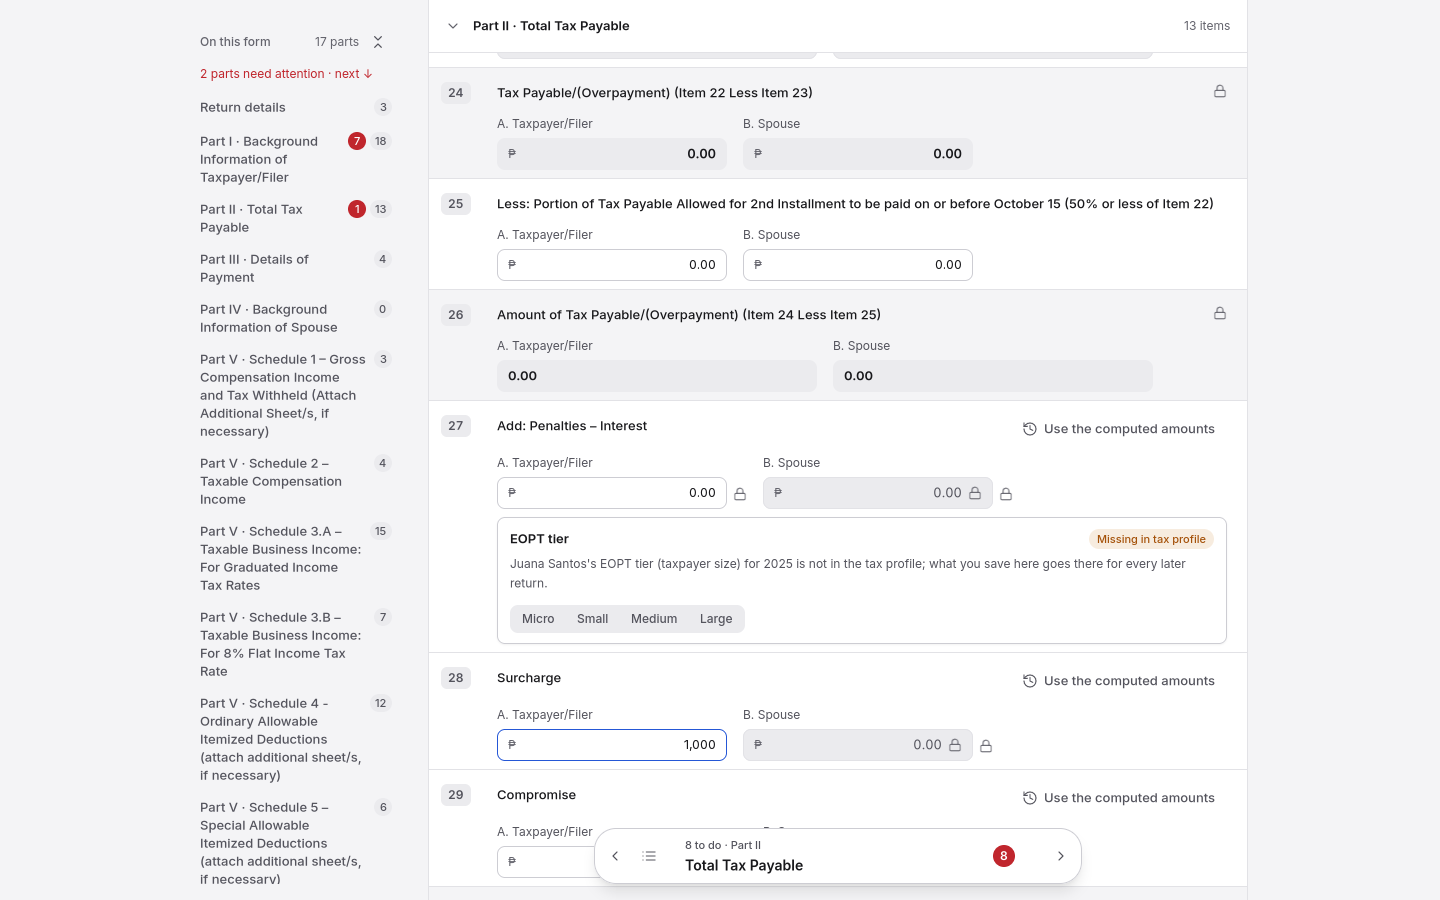
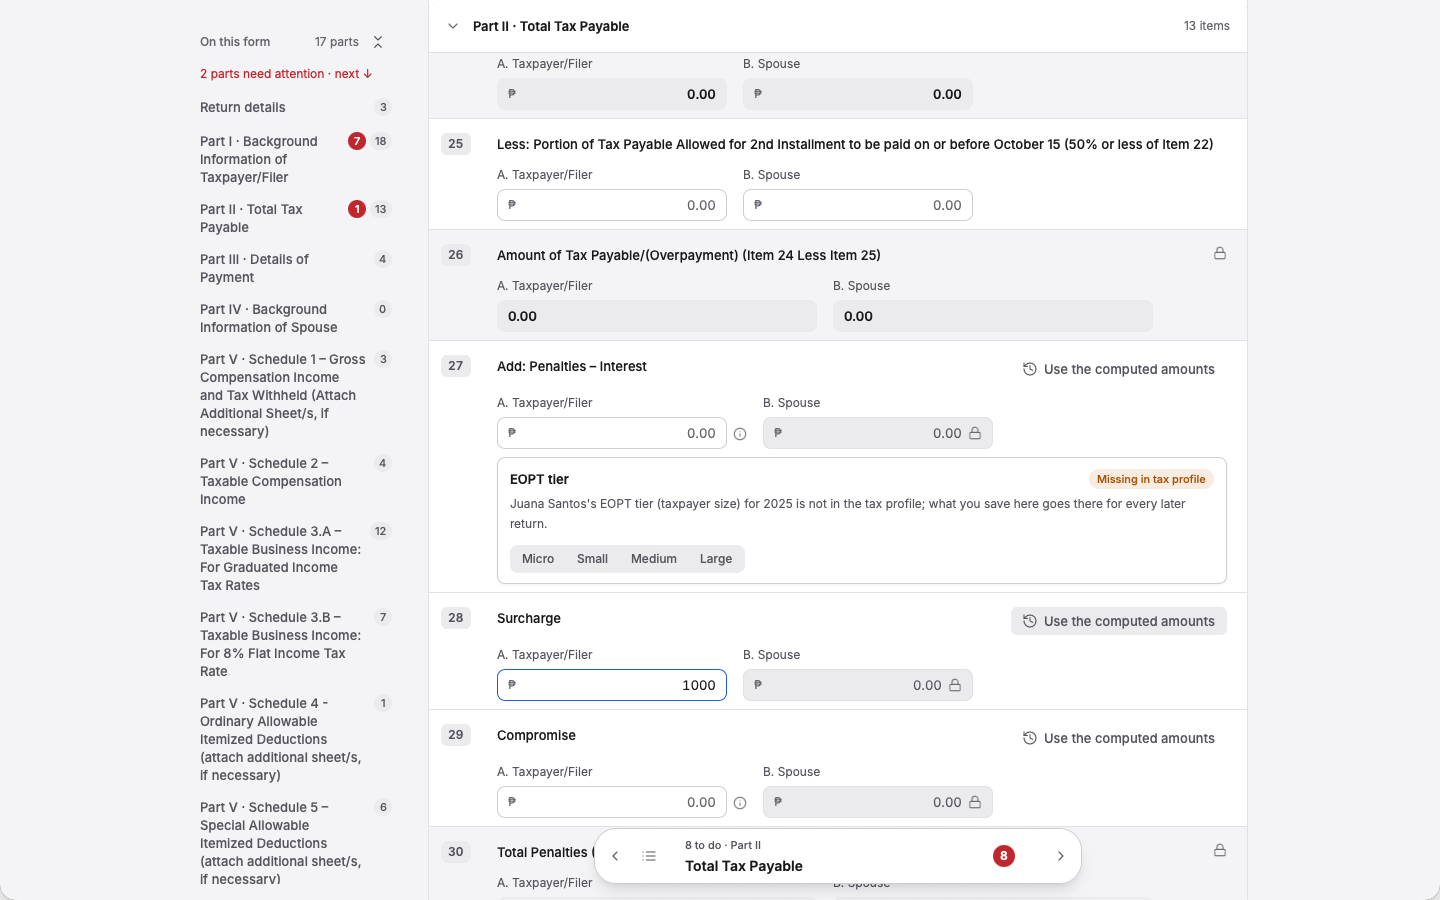
forms: penalty computed mark only on open untyped boxes
F1: a kept penalty amount is not computed. typed now also counts every key of a group kept as entered (a draft stored before the penalty model) and every key with a kept 8% amount, so those boxes show what the filer entered and the page marks none of them Computed from other items. Rust test on the existing legacy fixture, failing first (typed was empty).

F2: the marks flex-row wrapper no longer wraps every box in the row; only a penalty box of an open group is wrapped, so ordinary text boxes, tick boxes and long checkbox labels keep the rows full width on phones. The wrapper keys on group membership, not penaltyComputed, so the mark lifting never remounts the box mid-edit.

F3: a shut penalty box carries no outside mark (its own lock and reason already say the amounts are computed) and the mark on an open box is an info sign, so no lock icon ever sits beside a box the filer can type in.

F4: the desktop untouched proof is retaken with Items 27 to 29 visible.

F5: the mark no longer duplicates the lock announcement: it shows only on open boxes, where the box has no lock reason of its own, so a screen reader hears the computed state once.

Tests: the Rust assertion on the legacy fixture and the rewritten penaltyMark tests failed first on the unfixed tree and pass with the fix.

diff --git a/nsh/screens/form/penaltyMark.test.tsx b/nsh/screens/form/penaltyMark.test.tsx
@@ -1,9 +1,9 @@
 import { expect, open, test } from "nsh/test";
 
-// The page's "Computed from other items" mark sits on exactly the penalty boxes
-// whose component the filer never typed. Nothing typed yet: all three of 1701's
-// Items 27-29 carry it; a box outside the penalty group carries none.
-test("penalty computed marks on 1701", async () => {
+// The page's "Computed from other items" mark sits on exactly the open penalty boxes
+// whose component the filer never typed. A shut box carries no mark: its own lock and
+// its reason already say the amounts are computed. An ordinary box is never wrapped.
+test("no penalty mark on a shut box on 1701", async () => {
   const app = await open("./FormPageAny.tsx", {
     width: 1440, height: 900, platform: "macos", clock: {},
     host: { params: { formCode: "1701", year: 2025, period: 0, openParts: "all" } },
@@ -12,27 +12,36 @@ test("penalty computed marks on 1701", async () => {
   const box = "id:fp-frm1701:txtPg1I27A";
   for (let i = 0; i < 40 && !app.shows(box); i++) await app.scroll("id:form-scroll", 800);
   expect(app.count(box)).toBe(1);
-  expect(app.count("id:fp-mark-lock-frm1701:txtPg1I27A")).toBe(1);
-  expect(app.count("id:fp-mark-lock-frm1701:txtPg1I28A")).toBe(1);
+  // Untouched, the group is locked: the boxes are shut, and no mark and no wrapper show.
+  for (const k of ["frm1701:txtPg1I27A", "frm1701:txtPg1I28A", "frm1701:txtPg1I29A"]) {
+    expect(app.count(`id:fp-mark-lock-${k}`)).toBe(0);
+    expect(app.count(`id:fp-mark-info-${k}`)).toBe(0);
+    expect(app.count(`id:fp-penrow-${k}`)).toBe(0);
+  }
   // Rows mount as they scroll into view (the list recycles): Item 29 is below Item 27.
   for (let i = 0; i < 12 && !app.shows("id:fp-frm1701:txtPg1I29A"); i++) await app.scroll("id:form-scroll", 300);
-  expect(app.count("id:fp-mark-lock-frm1701:txtPg1I29A")).toBe(1);
-  // A non-penalty box carries no mark: Item 14's foreign tax number is in the same part.
-  expect(app.count("id:fp-mark-lock-frm1701:txtPg1I14ForeignTaxNumber")).toBe(0);
+  expect(app.count("id:fp-mark-info-frm1701:txtPg1I29A")).toBe(0);
+  // A non-penalty box is never wrapped: Item 14's foreign tax number is in the same part.
+  expect(app.count("id:fp-penrow-frm1701:txtPg1I14ForeignTaxNumber")).toBe(0);
 });
 
-test("penalty computed marks on 1701 phone", async () => {
+test("no penalty mark on a shut box on 1701 phone", async () => {
   const app = await open("./FormPageAny.tsx", {
     host: { params: { formCode: "1701", year: 2025, period: 0, openParts: "all" } },
   });
   await app.waitFor("text:BIR Form 1701");
   const box = "id:fp-frm1701:txtPg1I27A";
   for (let i = 0; i < 40 && !app.shows(box); i++) await app.scroll("id:form-scroll", 800);
-  expect(app.count("id:fp-mark-lock-frm1701:txtPg1I27A")).toBe(1);
+  expect(app.count(box)).toBe(1);
+  expect(app.count("id:fp-mark-info-frm1701:txtPg1I27A")).toBe(0);
+  expect(app.count("id:fp-penrow-frm1701:txtPg1I27A")).toBe(0);
+  // An ordinary phone box keeps the row's full width: no wrapper on Item 14's foreign tax number.
+  expect(app.count("id:fp-penrow-frm1701:txtPg1I14ForeignTaxNumber")).toBe(0);
 });
 
-// The live flow: Edit penalties opens the group, the filer types the surcharge
-// (Item 28); its mark lifts once the edit's round trip lands, and the interest
+// The live flow: Edit penalties opens the group — its untyped boxes carry the mark with
+// the info sign, never a lock beside a box the filer can type in. The filer types the
+// surcharge (Item 28); its mark lifts once the edit's round trip lands, and the interest
 // (27) and compromise (29) boxes keep theirs.
 test("penalty mark lifts on the typed component", async () => {
   const app = await open("./FormPageAny.tsx", {
@@ -43,14 +52,21 @@ test("penalty mark lifts on the typed component", async () => {
   const box = "id:fp-frm1701:txtPg1I28A";
   for (let i = 0; i < 40 && !app.shows(box); i++) await app.scroll("id:form-scroll", 800);
   expect(app.count(box)).toBe(1);
-  expect(app.count("id:fp-mark-lock-frm1701:txtPg1I28A")).toBe(1);
+  expect(app.count("id:fp-mark-info-frm1701:txtPg1I28A")).toBe(0);
   await app.press("id:fp-penalty-2:6");
+  // Open and untyped: the wrapper and the info mark show; never a lock icon.
+  for (let i = 0; i < 40 && app.count("id:fp-mark-info-frm1701:txtPg1I28A") !== 1; i++) await app.wait(250);
+  expect(app.count("id:fp-mark-info-frm1701:txtPg1I28A")).toBe(1);
+  expect(app.count("id:fp-penrow-frm1701:txtPg1I28A")).toBe(1);
+  expect(app.count("id:fp-mark-lock-frm1701:txtPg1I28A")).toBe(0);
   // Clear the prefilled 0.00 first: app.type appends.
   await app.clear(box);
   await app.type(box, "1000");
   await app.waitFor("text:✓ Saved", { timeout: 15_000 }).catch(() => {});
-  for (let i = 0; i < 40 && app.count("id:fp-mark-lock-frm1701:txtPg1I28A") !== 0; i++) await app.wait(250);
-  expect(app.count("id:fp-mark-lock-frm1701:txtPg1I28A")).toBe(0);
-  expect(app.count("id:fp-mark-lock-frm1701:txtPg1I27A")).toBe(1);
-  expect(app.count("id:fp-mark-lock-frm1701:txtPg1I29A")).toBe(1);
+  for (let i = 0; i < 40 && app.count("id:fp-mark-info-frm1701:txtPg1I28A") !== 0; i++) await app.wait(250);
+  expect(app.count("id:fp-mark-info-frm1701:txtPg1I28A")).toBe(0);
+  expect(app.count("id:fp-mark-info-frm1701:txtPg1I27A")).toBe(1);
+  expect(app.count("id:fp-mark-info-frm1701:txtPg1I29A")).toBe(1);
+  // The typed box keeps its wrapper (the mark lifting never remounts the box mid-edit).
+  expect(app.count("id:fp-penrow-frm1701:txtPg1I28A")).toBe(1);
 });

diff --git a/nsh/shots/penaltyMark.test.tsx b/nsh/shots/penaltyMark.test.tsx
@@ -1,9 +1,11 @@
 import { expect, open, test } from "nsh/test";
 import { shoot } from "./shoot";
 
-// Real-window proof for the penalty computed mark on 1701: untouched, every penalty
-// box carries the lock mark; after the filer types the surcharge (Item 28) alone,
-// its mark lifts and the interest (27) and compromise (29) boxes keep theirs.
+// Real-window proof for the penalty computed mark on 1701: untouched, Items 27 to 29
+// are all visible and no box carries a mark (the boxes are shut — their own locks and
+// reasons say the amounts are computed); after Edit, the filer types the surcharge
+// (Item 28) alone, its info mark lifts and the interest (27) and compromise (29)
+// boxes keep theirs.
 test("penalty mark typed surcharge only", async () => {
   const app = await open("../screens/form/FormPageAny.tsx", {
     width: 1440, height: 900, platform: "macos", clock: {},
@@ -13,14 +15,21 @@ test("penalty mark typed surcharge only", async () => {
   const box = "id:fp-frm1701:txtPg1I28A";
   for (let i = 0; i < 40 && !app.shows(box); i++) await app.scroll("id:form-scroll", 800);
   expect(app.count(box)).toBe(1);
+  // The proof shows all three penalty rows: rows mount ahead of the viewport, so
+  // scroll past their mounting until Item 29's row is well inside the window.
+  for (let i = 0; i < 20 && !(app.shows("id:fp-frm1701:txtPg1I27A") && app.shows("id:fp-frm1701:txtPg1I29A")); i++) await app.scroll("id:form-scroll", 200);
+  expect(app.shows("id:fp-frm1701:txtPg1I27A")).toBe(true);
+  expect(app.shows("id:fp-frm1701:txtPg1I29A")).toBe(true);
+  await app.scroll("id:form-scroll", 420);
+  await app.wait(300);
   await shoot(app, "penalty-untouched");
   await app.press("id:fp-penalty-2:6");
   await app.clear(box);
   await app.type(box, "1000");
   await app.waitFor("text:✓ Saved", { timeout: 15_000 }).catch(() => {});
-  for (let i = 0; i < 40 && app.count("id:fp-mark-lock-frm1701:txtPg1I28A") !== 0; i++) await app.wait(250);
-  expect(app.count("id:fp-mark-lock-frm1701:txtPg1I28A")).toBe(0);
-  expect(app.count("id:fp-mark-lock-frm1701:txtPg1I27A")).toBe(1);
-  expect(app.count("id:fp-mark-lock-frm1701:txtPg1I29A")).toBe(1);
+  for (let i = 0; i < 40 && app.count("id:fp-mark-info-frm1701:txtPg1I28A") !== 0; i++) await app.wait(250);
+  expect(app.count("id:fp-mark-info-frm1701:txtPg1I28A")).toBe(0);
+  expect(app.count("id:fp-mark-info-frm1701:txtPg1I27A")).toBe(1);
+  expect(app.count("id:fp-mark-info-frm1701:txtPg1I29A")).toBe(1);
   await shoot(app, "penalty-surcharge-typed");
 });

diff --git a/nsh/screens/form/rows.tsx b/nsh/screens/form/rows.tsx
@@ -395,12 +395,23 @@ function Controls(props: { s: FormSession; id: string; it: SchemaItem; narrow: A
           <If when={!hid().includes(f.k)}>
             <View class="min-w-0 gap-1" style={{ width: props.narrow() ? "100%" : undefined }}>
               {sub && f.t !== "chk" ? <Text variant="meta" tone="fg2">{f.l}</Text> : null}
-              <View class="flex-row items-center gap-1.5">
-                <FieldControl {...fieldProps(s, f, props.narrow, f.t === "chk" ? f.l || it.l : f.l)} />
-                {/* A penalty box whose component the filer never typed shows the computed
-                    amounts; the mark says so. A typed component carries no mark. */}
-                {s.penaltyComputed(f.k) ? <Mark icon="lock" id={f.k} tip="Computed from other items" /> : null}
-              </View>
+              {/* A penalty box of an open group keeps the mark's row wrapper whether or not its
+                  component was typed, so the mark lifting never remounts the box mid-edit; every
+                  other box draws bare and keeps the row's full width on a phone. The mark shows
+                  only while the box is open and untyped — a shut box's own lock and reason already
+                  say the amounts are computed, and the screen reader hears that once — an info
+                  sign, never a lock beside a box the filer can type in. */}
+              <If
+                when={s.inPenaltyGroup(f.k) && !s.box(f.k).locked()}
+                else={<FieldControl {...fieldProps(s, f, props.narrow, f.t === "chk" ? f.l || it.l : f.l)} />}
+              >
+                <View testID={`fp-penrow-${f.k}`} class="flex-row items-center gap-1.5">
+                  <View class="min-w-0 flex-1">
+                    <FieldControl {...fieldProps(s, f, props.narrow, f.t === "chk" ? f.l || it.l : f.l)} />
+                  </View>
+                  {s.penaltyComputed(f.k) ? <Mark icon="info" id={f.k} tip="Computed from other items" /> : null}
+                </View>
+              </If>
             </View>
           </If>
         );

diff --git a/nsh/screens/form/session.ts b/nsh/screens/form/session.ts
@@ -2343,6 +2343,11 @@ export class FormSession {
     return this.sPenaltyComputed.get(k)();
   }
 
+  /** The box belongs to a penalty group, its component typed or not (the membership is static). */
+  inPenaltyGroup(k: string): boolean {
+    return Boolean(this.penaltyGroupOf(k));
+  }
+
   /** The same state, straight from the penalties the host last sent: publishBoxes feeds the signal. */
   private penaltyComputedOf(k: string): boolean {
     const g = this.penaltyGroupOf(k);

diff --git a/crates/bir-app-api/src/screen_form_module/penalties.rs b/crates/bir-app-api/src/screen_form_module/penalties.rs
@@ -81,12 +81,17 @@ pub(super) fn json(kind: AgentFormKind, draft: &Value) -> Value {
                 json!({
                     "keys": group.keys,
                     // Each box whose component the filer typed (its override
-                    // is set): the others show the computed amounts, and the
-                    // page marks them as computed.
+                    // is set), and each box whose amount is kept as entered —
+                    // a group stored before the penalty model, or a kept 8%
+                    // amount: those boxes show what the filer entered, never a
+                    // computed amount, so the page marks none of them as computed.
+                    // The others show the computed amounts, and the page marks them.
                     "typed": group.keys.iter().filter(|key| {
-                        path_of(kind, key).is_some_and(|path| {
-                            draft.pointer(&path).is_some_and(|value| !value.is_null())
-                        })
+                        kept(kind, group, draft)
+                            || kept_amount_path(kind, draft, key).is_some()
+                            || path_of(kind, key).is_some_and(|path| {
+                                draft.pointer(&path).is_some_and(|value| !value.is_null())
+                            })
                     }).collect::<Vec<_>>(),
                     "edited": edited(group, draft),
                     // A kept 8% amount opens with Edit so a blank can clear it.

diff --git a/crates/bir-app-api/src/screen_form_module/tests/annual_individual.rs b/crates/bir-app-api/src/screen_form_module/tests/annual_individual.rs
@@ -1093,6 +1093,17 @@ fn form_1701_penalties_are_computed_and_kept_ones_say_so() {
         .find(|g| strings(&g["keys"]).contains("frm1701:txtPg1I27A"))
         .unwrap();
     assert_eq!(group["kept"], true);
+    // A kept group's boxes are not computed: they show what the filer entered
+    // before the model, so the page marks none of them "computed from other items".
+    assert_eq!(
+        group["typed"],
+        json!([
+            "frm1701:txtPg1I27A",
+            "frm1701:txtPg1I28A",
+            "frm1701:txtPg1I29A"
+        ]),
+        "a kept group's boxes show what the filer entered, not computed amounts"
+    );
     let computed = fill_unlocked(
         "1701",
         &checked["draft"],
